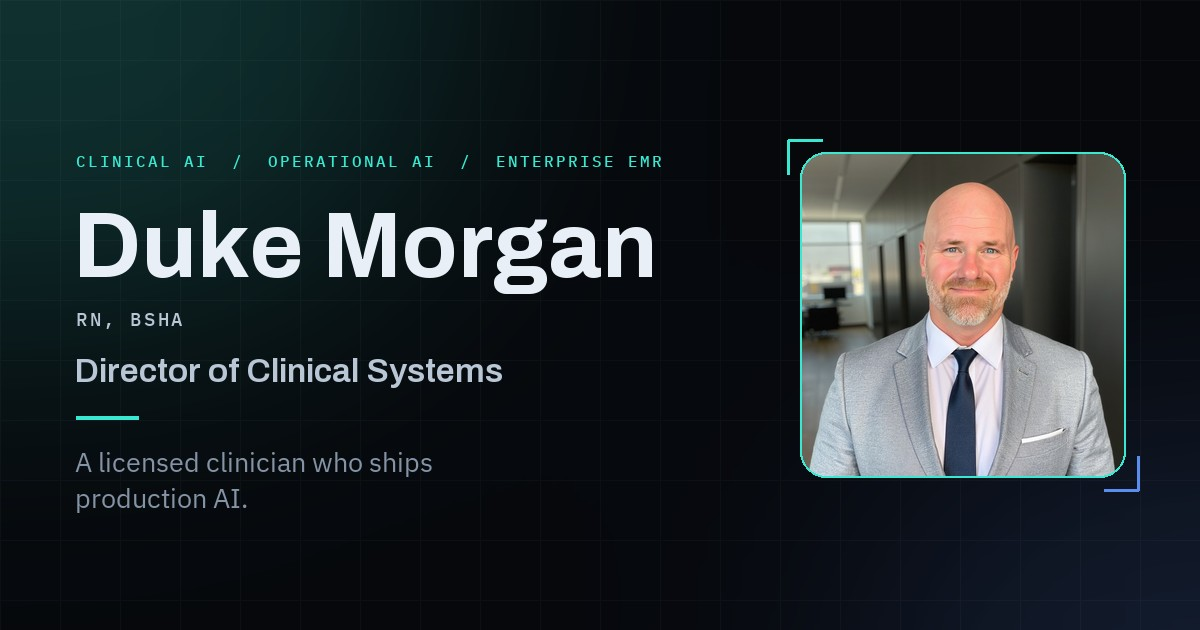
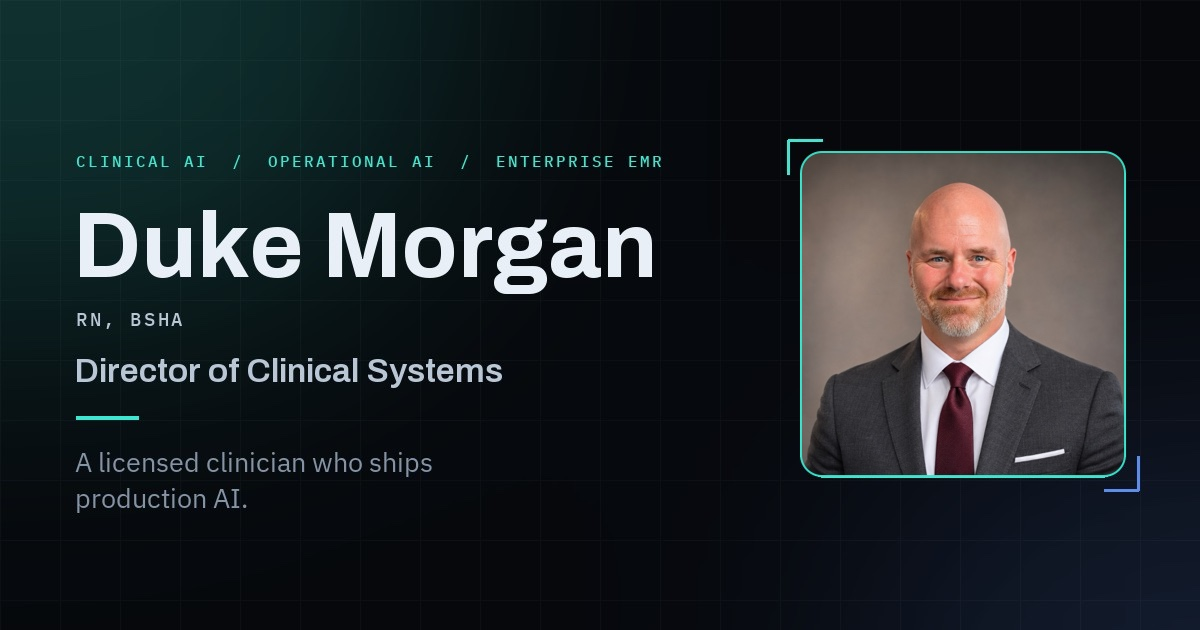
Update headshot and OG card, upgrade Solutions playbook, and align official title

Changed region(s): [[0.6475, 0.2413, 0.9558, 0.754]]

diff --git a/site/index.html b/site/index.html
@@ -48,7 +48,7 @@
       <span class="nav__mark" aria-hidden="true">DM</span>
       <span class="nav__name">Duke Morgan<span class="nav__cred">RN, BSHA</span></span>
     </a>
-    <nav class="nav__links" id="primary-nav" aria-label="Primary"><a href="#clinical">Clinical AI</a><a href="#architecture">Architecture</a><a href="#operations">AI Enablement</a><a href="#systems">Engineering</a><a href="#about">About Duke</a><a href="#credentials">Credentials</a><a href="#contact" class="nav__cta">Contact</a></nav>
+    <nav class="nav__links" id="primary-nav" aria-label="Primary"><a href="#clinical">Clinical AI</a><a href="#architecture">Architecture</a><a href="#operations">AI Enablement</a><a href="#systems">Solutions</a><a href="#about">About Duke</a><a href="#credentials">Credentials</a><a href="#contact" class="nav__cta">Contact</a></nav>
     <button class="nav__toggle" aria-label="Toggle navigation" aria-controls="primary-nav" aria-expanded="false">
       <span></span><span></span><span></span>
     </button>
@@ -421,7 +421,7 @@
     <div class="case-panel" data-case-panel="c4" role="tabpanel">
       <article class="case-study">
         <div class="case-heading"><span class="case-number">04</span><div><p class="eyebrow">Agent systems / Persistent institutional knowledge</p><h3>Stop rebuilding context every time work resumes.</h3><p class="case-lead">Arm autonomous sessions with persistent memory, operational findings, and synthesized skills from previous runs.</p></div></div>
-        <div class="case-body"><div class="case-problem"><h4>The problem</h4><p>Agents operating in isolated sessions repeatedly lose prior findings, procedural decisions, and runtime context. High-value operational discoveries remain trapped in ephemeral chat histories.</p></div><div class="case-solution"><h4>What I built &amp; enabled</h4><p>I built a shared, persistent knowledge base paired with an automated session review pipeline. The pipeline analyzes completed workflows, extracts repeatable operational patterns, and synthesizes them into modular skills available to the entire agent fleet.</p><div class="case-change"><h4>What changed</h4><p>Decisions and architectural discoveries compound across sessions. As agents resolve novel operational challenges, the platform automatically codifies those patterns into reusable enterprise skills.</p></div></div></div>
+        <div class="case-body"><div class="case-problem"><h4>The problem</h4><p>Agents operating in isolated sessions repeatedly lose prior findings, procedural decisions, and runtime context. High-value operational discoveries remain trapped in ephemeral chat histories.</p></div><div class="case-solution"><h4>What I built &amp; enabled</h4><p>I built a shared, persistent knowledge base (750+ indexed architectural files, operational runbooks, and a centralized tool registry) paired with an automated session review pipeline. The pipeline analyzes completed workflows, extracts repeatable operational patterns, and synthesizes them into modular skills available to the entire agent fleet.</p><div class="case-change"><h4>What changed</h4><p>Decisions and architectural discoveries compound across sessions. As agents resolve novel operational challenges, the platform automatically codifies those patterns into reusable enterprise skills.</p></div></div></div>
         <ol class="case-flow" aria-label="How the workflow works"><li><span>01</span>Complete a task</li><li><span>02</span>Review the session</li><li><span>03</span>Preserve findings &amp; reusable steps</li><li><span>04</span>Use them in the next task</li></ol><ul class="chips" aria-label="Skills demonstrated"><li>Persistent Context</li><li>Multi-Agent Orchestration</li><li>Dynamic Skill Synthesis</li><li>Knowledge Retrieval</li></ul>
       </article>
     </div>
@@ -487,14 +487,200 @@
 
 </div></section>
 
-<section class="section " id="systems"><div class="wrap"><div class="section__head"><p class="eyebrow">03 / Supporting engineering</p><h2 class="section__title">Problems solved in clinical systems.</h2><p class="section__sub">My experience shows up in the problems I investigate and the tools I build. These examples from my clinical systems work connect the underlying fault to a practical solution.</p></div><div class="cards cards--3">
-<article class="card"><p class="eyebrow">Clinical record access</p><h3>Bring four legacy EMRs into one view.</h3><p><strong>Problem:</strong> Records were spread across four legacy platforms, with shared credentials for access.</p><p><strong>Solution:</strong> I built a read-only clinical viewer and migration tooling with .NET, React, and Azure. The migration covered 3M+ clinical records, 770K+ documents, and 80K+ treatment cycles. Entra ID single sign-on replaced shared credentials, with authorization controls across clinics.</p></article>
-<article class="card"><p class="eyebrow">Safer operational changes</p><h3>Check the system before applying the plan.</h3><p><strong>Problem:</strong> The live system could change between approval and execution.</p><p><strong>Solution:</strong> My Python/Flask administration console handles chart merges, provisioning, drug libraries, and permissions. It re-validates live state before execution and stops when conditions differ from the approved plan. It caught a real divergence on its first run.</p></article>
-<article class="card"><p class="eyebrow">Data integrity</p><h3>Find the fault behind a successful load.</h3><p><strong>Problem:</strong> A laboratory migration reported success while a non-unique key collapsed distinct records.</p><p><strong>Solution:</strong> I traced the fault, changed the keying approach, and recovered records that would otherwise have been lost.</p></article>
-<article class="card"><p class="eyebrow">EMR troubleshooting</p><h3>Find charts the system made invisible.</h3><p><strong>Problem:</strong> A vendor function made affected charts impossible to open and invisible in search, making missing records harder to recognize.</p><p><strong>Solution:</strong> I traced the issue to a null-dereference and produced a reversible fix.</p></article>
-<article class="card"><p class="eyebrow">Permission governance</p><h3>Verify the audit trail behind access changes.</h3><p><strong>Problem:</strong> During access remediation across two production sites, partial permission changes were missing from the vendor’s audit trail.</p><p><strong>Solution:</strong> I identified the stored-procedure gap, removed excess access, and validated the governed change.</p></article>
-<article class="card"><p class="eyebrow">Patient document access</p><h3>Put access controls around sensitive documents.</h3><p><strong>Problem:</strong> A patient document store allowed public reads, and a separate authorization gap permitted access across clinics.</p><p><strong>Solution:</strong> I implemented authenticated document delivery, row-level controls, and a global authorization filter.</p></article>
-</div></div></section>
+<section class="section " id="systems"><div class="wrap"><div class="section__head"><p class="eyebrow">03 / Workplace problems &amp; shipped solutions</p><h2 class="section__title">Operational bottlenecks turned into production systems.</h2><p class="section__sub">Real problems encountered across multi-clinic healthcare operations and enterprise AI delivery—paired with the technical solution I built and the measurable outcome. Filter by focus area below.</p></div>
+
+<div class="solutions-bar reveal" aria-label="Filter workplace solutions by focus area">
+  <div class="solutions-filters" role="tablist" aria-label="Solution categories">
+    <button type="button" class="solution-filter is-active" data-solution-filter="featured" role="tab" aria-selected="true">Featured (6)</button>
+    <button type="button" class="solution-filter" data-solution-filter="all" role="tab" aria-selected="false">All Solutions (12)</button>
+    <button type="button" class="solution-filter" data-solution-filter="clinical" role="tab" aria-selected="false">Clinical Systems &amp; EMR (5)</button>
+    <button type="button" class="solution-filter" data-solution-filter="ai" role="tab" aria-selected="false">Enterprise AI &amp; Governance (4)</button>
+    <button type="button" class="solution-filter" data-solution-filter="ops" role="tab" aria-selected="false">Ops &amp; Enablement (3)</button>
+  </div>
+  <span class="solutions-meta" id="solutions-meta" aria-live="polite">Showing 6 featured highlights</span>
+</div>
+
+<div class="cards cards--3 solutions-grid" id="solutions-grid">
+
+  <article class="card solution-card" data-track="clinical" data-featured="true">
+    <div class="solution-card__top">
+      <p class="solution-card__cat">Clinical Data Migration</p>
+      <span class="solution-card__metric">9 hrs &rarr; &lt;6 min</span>
+    </div>
+    <h3>Onboard an active primary EMR into a unified multi-clinic viewer.</h3>
+    <div class="solution-card__body">
+      <p><strong>Problem:</strong> Our multi-clinic viewer (3M+ records across 4 legacy EMRs) had never ingested data directly from our active primary EMR—over 1M rows with undocumented schemas and mis-encoded binary documents.</p>
+      <p><strong>Solution:</strong> Built a batched bulk-loader pipeline, a standalone binary document encoding repair utility, and a reusable vendor migration profile.</p>
+      <p class="solution-card__impact"><strong>Impact:</strong> Migrated 11,600+ patients and 1.3M+ records in under 6 minutes (down from ~9 hours), creating a repeatable onboarding blueprint for future clinics.</p>
+    </div>
+    <ul class="chips" aria-label="Capabilities demonstrated"><li>Bulk ETL</li><li>SQL Server</li><li>Binary Repair</li><li>1.3M+ Records</li></ul>
+  </article>
+
+  <article class="card solution-card" data-track="clinical" data-featured="true">
+    <div class="solution-card__top">
+      <p class="solution-card__cat">Permission Governance</p>
+      <span class="solution-card__metric">14 Sites &middot; 177 Changes</span>
+    </div>
+    <h3>Revoke sensitive clinical access safely across a multi-clinic network.</h3>
+    <div class="solution-card__body">
+      <p><strong>Problem:</strong> The EMR’s additive security model lacked "deny" semantics. Manually revoking Billing Write access across 14+ clinics risked raw SQL errors and silent vendor audit-trail gaps.</p>
+      <p><strong>Solution:</strong> Built a dry-run-first CLI wrapping vendor stored procedures to preview full before/after states, verify audit logging, and capture row-level rollback snapshots.</p>
+      <p class="solution-card__impact"><strong>Impact:</strong> Completed 177 verified revocations across 14 production centers with zero data loss, exposed a vendor audit-logging defect, and caught live unauthorized re-grants within minutes.</p>
+    </div>
+    <ul class="chips" aria-label="Capabilities demonstrated"><li>Access Governance</li><li>Dry-Run CLI</li><li>Audit Forensics</li><li>Rollback Safety</li></ul>
+  </article>
+
+  <article class="card solution-card" data-track="clinical" data-featured="true">
+    <div class="solution-card__top">
+      <p class="solution-card__cat">Core Clinical Engineering</p>
+      <span class="solution-card__metric">196 Tests &middot; 0 Regressions</span>
+    </div>
+    <h3>Modernize a 39-category legacy chart-merge engine in native TypeScript.</h3>
+    <div class="solution-card__body">
+      <p><strong>Problem:</strong> Complex patient chart merges—covering 39 data categories, gap repairs, and cascade reversions—lived in a brittle legacy service outside our modern enterprise operations stack.</p>
+      <p><strong>Solution:</strong> Executed a 10-phase port into TypeScript, engineering every merge category as a builder/reverser pair with pre-mutation backups and compile-time clinic registries.</p>
+      <p class="solution-card__impact"><strong>Impact:</strong> Deployed with 196 passing automated tests and zero regressions, enabling safe, instantaneous chart merges across any configured clinic from one unified interface.</p>
+    </div>
+    <ul class="chips" aria-label="Capabilities demonstrated"><li>TypeScript</li><li>Builder/Reverser</li><li>196 Unit Tests</li><li>Zero Regressions</li></ul>
+  </article>
+
+  <article class="card solution-card" data-track="ai" data-featured="true">
+    <div class="solution-card__top">
+      <p class="solution-card__cat">HIPAA / BAA AI Architecture</p>
+      <span class="solution-card__metric solution-card__metric--blue">Zero PHI Egress</span>
+    </div>
+    <h3>Enable AI-assisted clinical database forensics without exposing PHI.</h3>
+    <div class="solution-card__body">
+      <p><strong>Problem:</strong> Repetitive clinical data investigations (duplicate charts, ID collisions, population anomalies) were ideal for AI, but HIPAA rules bar raw patient data from commercial AI stacks.</p>
+      <p><strong>Solution:</strong> Built a guarded local query proxy and BAA-governed read-only investigator that validates schema paths against injection, routes raw results to an isolated HIPAA de-identification layer, and returns only scrubbed summaries.</p>
+      <p class="solution-card__impact"><strong>Impact:</strong> Shifted effort from manual SQL querying to strategic investigation briefs—accelerating root-cause analysis inside an auditable, zero-leak boundary.</p>
+    </div>
+    <ul class="chips" aria-label="Capabilities demonstrated"><li>HIPAA / BAA</li><li>PHI De-ID Proxy</li><li>Read-Only Guardrails</li><li>Autonomous Forensics</li></ul>
+  </article>
+
+  <article class="card solution-card" data-track="ai" data-featured="true">
+    <div class="solution-card__top">
+      <p class="solution-card__cat">AI Platform Standardization</p>
+      <span class="solution-card__metric solution-card__metric--blue">Write Once &middot; Fleet-Wide</span>
+    </div>
+    <h3>Eliminate duplicated AI integrations with a unified MCP tool layer.</h3>
+    <div class="solution-card__body">
+      <p><strong>Problem:</strong> Connecting every AI agent separately to hybrid search, enterprise trackers, and clinical query gateways caused redundant engineering and vendor lock-in.</p>
+      <p><strong>Solution:</strong> Standardized internal capabilities on a Model Context Protocol (MCP) ecosystem so localized and cloud agents consume shared enterprise tools through one governed interface.</p>
+      <p class="solution-card__impact"><strong>Impact:</strong> Removed model-vendor lock-in and accelerated capability rollouts—any newly built internal tool immediately empowers the entire agent fleet.</p>
+    </div>
+    <ul class="chips" aria-label="Capabilities demonstrated"><li>MCP Ecosystem</li><li>Model-Agnostic</li><li>Governed Tooling</li><li>Enterprise Scale</li></ul>
+  </article>
+
+  <article class="card solution-card" data-track="ops" data-featured="true">
+    <div class="solution-card__top">
+      <p class="solution-card__cat">Compliance Automation</p>
+      <span class="solution-card__metric">100% Consistency &middot; 17 Sites</span>
+    </div>
+    <h3>Turn multi-site CAB filings into a single governed conversational command.</h3>
+    <div class="solution-card__body">
+      <p><strong>Problem:</strong> Manual Change Advisory Board (CAB) requests and enterprise task filings across 17 clinic sites caused template drift, missing fields, and administrative drag.</p>
+      <p><strong>Solution:</strong> Built a library of approved agent skills backed by role-scoped API integrations that interactively verify dynamic deployment windows and file structured CAB payloads automatically.</p>
+      <p class="solution-card__impact"><strong>Impact:</strong> Achieved 100% compliance documentation consistency across 17 sites, turning repetitive multi-page change requests into a one-sentence workflow.</p>
+    </div>
+    <ul class="chips" aria-label="Capabilities demonstrated"><li>CAB Governance</li><li>Agent Skills</li><li>RBAC API</li><li>Change Management</li></ul>
+  </article>
+
+  <article class="card solution-card" data-track="clinical" data-featured="false">
+    <div class="solution-card__top">
+      <p class="solution-card__cat">Clinical Workflow Automation</p>
+      <span class="solution-card__metric">Hand-Typed &rarr; Auto-Filled</span>
+    </div>
+    <h3>Automate clinic requisitions with an EMR Bookmark Mapping engine.</h3>
+    <div class="solution-card__body">
+      <p><strong>Problem:</strong> Clinic staff filled out lab requisitions and forms by hand because no reliable map existed showing which EMR Word bookmarks auto-populated versus required free text.</p>
+      <p><strong>Solution:</strong> Built a repeatable EMR Bookmark Master Key classifying every field (Pull-In, Free Text, site-dependent) and a Python/XML injector to embed validated bookmarks into Word templates.</p>
+      <p class="solution-card__impact"><strong>Impact:</strong> Eliminated repetitive manual typing on high-volume clinical forms while preventing teams from over-promising unsupported vendor fields to clinics.</p>
+    </div>
+    <ul class="chips" aria-label="Capabilities demonstrated"><li>Python / XML</li><li>EMR Bookmarks</li><li>Clinician Empathy</li><li>Form Automation</li></ul>
+  </article>
+
+  <article class="card solution-card" data-track="clinical" data-featured="false">
+    <div class="solution-card__top">
+      <p class="solution-card__cat">EMR Forensics &amp; Ops Safety</p>
+      <span class="solution-card__metric">Days &rarr; Checklist Diagnostics</span>
+    </div>
+    <h3>Replace risky ad-hoc SQL with a Forensics Playbook &amp; Guarded Ops Console.</h3>
+    <div class="solution-card__body">
+      <p><strong>Problem:</strong> Vague EMR failures (vanishing charts, blank schedules, silent key collisions) and bulk updates across 19 clinic databases forced slow, high-risk manual SQL.</p>
+      <p><strong>Solution:</strong> Authored a disciplined read-only forensics corpus with isolated transaction previews and built a clinical operations console that re-validates live DB state before executing changes.</p>
+      <p class="solution-card__impact"><strong>Impact:</strong> Compressed multi-day troubleshooting into checklist diagnostics, cut hours of bulk database ops to minutes, and armed vendor escalations with conclusive evidence.</p>
+    </div>
+    <ul class="chips" aria-label="Capabilities demonstrated"><li>Data Forensics</li><li>Pre-Flight Validation</li><li>19 Clinic DBs</li><li>Reversible Fixes</li></ul>
+  </article>
+
+  <article class="card solution-card" data-track="ai" data-featured="false">
+    <div class="solution-card__top">
+      <p class="solution-card__cat">AI FinOps &amp; Cost Governance</p>
+      <span class="solution-card__metric solution-card__metric--blue">28K+ Records &middot; 26 Models</span>
+    </div>
+    <h3>Bring single-pane cost observability to multi-provider AI usage.</h3>
+    <div class="solution-card__body">
+      <p><strong>Problem:</strong> Adopting multiple AI providers, APIs, and coding agents scattered usage logs across 29 distinct databases, making it difficult to audit model mix and recurring spend.</p>
+      <p><strong>Solution:</strong> Built a unified FinOps usage and cost dashboard importing telemetry from local coding agents and APIs with time-window filtering, renewal tracking, and reporting graphs.</p>
+      <p class="solution-card__impact"><strong>Impact:</strong> Recovered ~28,000 usage records across 26 models into 1,575 auditable aggregates, providing clear cost governance to optimize model selection and budgets.</p>
+    </div>
+    <ul class="chips" aria-label="Capabilities demonstrated"><li>AI FinOps</li><li>Cost Auditing</li><li>26 Models</li><li>Usage Analytics</li></ul>
+  </article>
+
+  <article class="card solution-card" data-track="ai" data-featured="false">
+    <div class="solution-card__top">
+      <p class="solution-card__cat">Agent Platform Reliability</p>
+      <span class="solution-card__metric solution-card__metric--blue">Supervised &middot; Self-Healing</span>
+    </div>
+    <h3>Run supervised specialist AI agents with production-grade reliability.</h3>
+    <div class="solution-card__body">
+      <p><strong>Problem:</strong> Supporting clinical platforms across 19 clinics creates continuous triage and build demand, while unattended background agents can crash silently or stall mid-workflow.</p>
+      <p><strong>Solution:</strong> Architected a supervised multi-agent operations layer with domain-scoped specialists, mandatory human approval gates, backoff-throttled restarts, health checks, and shared memory.</p>
+      <p class="solution-card__impact"><strong>Impact:</strong> Expanded engineering execution capacity with zero-touch crash recovery, predictable approval checkpoints, and lessons written durably back to an indexed knowledge base.</p>
+    </div>
+    <ul class="chips" aria-label="Capabilities demonstrated"><li>Multi-Agent Ops</li><li>Human-in-the-Loop</li><li>Process Supervision</li><li>Health Checks</li></ul>
+  </article>
+
+  <article class="card solution-card" data-track="ops" data-featured="false">
+    <div class="solution-card__top">
+      <p class="solution-card__cat">Knowledge Enablement</p>
+      <span class="solution-card__metric">30 min &rarr; Zero Touch</span>
+    </div>
+    <h3>Automate EMR vendor documentation into an indexed Knowledge Base.</h3>
+    <div class="solution-card__body">
+      <p><strong>Problem:</strong> Incoming EMR vendor updates, configuration guides, and troubleshooting docs took 20–30 minutes each to manually summarize, tag, and cross-reference.</p>
+      <p><strong>Solution:</strong> Built a watched-folder ingestion pipeline where a local agent parses new vendor documents, writes structured KB articles, attaches originals, and updates the hybrid search index.</p>
+      <p class="solution-card__impact"><strong>Impact:</strong> Cut documentation processing from 30 minutes per file to zero manual authoring, keeping a 750+ document institutional knowledge base continuously current.</p>
+    </div>
+    <ul class="chips" aria-label="Capabilities demonstrated"><li>Zero-Touch KB</li><li>Hybrid Search</li><li>750+ Artifacts</li><li>Doc Pipeline</li></ul>
+  </article>
+
+  <article class="card solution-card" data-track="ops" data-featured="false">
+    <div class="solution-card__top">
+      <p class="solution-card__cat">Program Visibility</p>
+      <span class="solution-card__metric">4 Boards &rarr; 1 View</span>
+    </div>
+    <h3>Unify multi-clinic rollout tracking with zero data migration.</h3>
+    <div class="solution-card__body">
+      <p><strong>Problem:</strong> Clinic go-lives, server deployments, and testing issues were fragmented across four isolated tracking boards with no executive rollup.</p>
+      <p><strong>Solution:</strong> Engineered a zero-dependency Python operations dashboard reading the existing shared data files directly to auto-compute completion percentages and status indicators.</p>
+      <p class="solution-card__impact"><strong>Impact:</strong> Consolidated four operational tracking surfaces into one cohesive leadership view and retired legacy boards cleanly with zero data loss or manual re-entry.</p>
+    </div>
+    <ul class="chips" aria-label="Capabilities demonstrated"><li>Python</li><li>Zero Dependencies</li><li>Executive Rollups</li><li>Rollout Ops</li></ul>
+  </article>
+
+</div>
+
+<div class="solutions-footer" id="solutions-footer">
+  <p>Showing 6 flagship highlights for fast executive review. Want deeper clinical and AI engineering examples?</p>
+  <button type="button" class="btn btn--ghost" id="solutions-show-all">
+    View all 12 workplace solutions
+    <svg viewBox="0 0 24 24" aria-hidden="true"><path d="M5 12h14M13 6l6 6-6 6"/></svg>
+  </button>
+</div>
+
+</div></section>
 
 <section class="section section--alt" id="about"><div class="wrap"><div class="section__head"><p class="eyebrow">04 / The person behind the work</p><h2 class="section__title">Clinical experience shapes what I build.</h2><p class="section__sub"></p></div><div class="about-showcase"><img src="assets/img/headshot-approachable.jpg" alt="Duke Morgan" width="1024" height="1024" loading="lazy"><div><p>I started in emergency nursing, where a difficult workflow has immediate consequences for the person trying to use it. That experience still shapes the questions I ask: What is someone trying to do? Where does the system get in the way? How will we know the change worked?</p><p>Today, I direct clinical systems at Inception Fertility and continue to build software and AI tools myself. I bring the clinical context, implementation experience, and technical depth needed to take a problem from investigation through delivery.</p><p>My interests extend into applied AI and automation wherever people need help navigating complex systems and repetitive work.</p></div></div>
 
@@ -513,7 +699,7 @@
   </div>
   <div class="career-step career-step--current">
     <span class="career-step__when"><span class="career-step__dot" aria-hidden="true"></span>2017 – Present &bull; Executive &amp; AI Architecture</span>
-    <span class="career-step__role">Director of Clinical Systems &amp; Applied AI</span>
+    <span class="career-step__role">Director of Clinical Systems</span>
     <span class="career-step__org">Multi-State Fertility Care Network</span>
     <span class="career-step__desc">Direct multi-EMR strategy, $MM vendor portfolio, BAA-governed Azure AI Foundry routing, and agentic tools.</span>
   </div>
@@ -922,7 +1108,7 @@
         <span>AI Architect</span>
         <span>Clinical AI Leadership</span>
         <span>AI Enablement &amp; Transformation</span>
-        <span>Director / VP of Clinical Systems</span>
+        <span>Director of Clinical Systems</span>
       </div>
       <div class="contact__actions">
         <a class="btn btn--primary btn--lg" href="resume/Duke-Morgan-Resume.pdf" target="_blank">

diff --git a/site/assets/css/styles.css b/site/assets/css/styles.css
@@ -1158,3 +1158,82 @@ ul,ol{ margin:0; padding:0; list-style:none; }
   .rag-controls{width:100%}
 }
 
+/* ============================================================
+   Section 03: Filterable Problem & Solution Playbook
+   ============================================================ */
+.solutions-bar{
+  display:flex;align-items:center;justify-content:space-between;gap:1rem;flex-wrap:wrap;
+  padding-bottom:1.4rem;margin-bottom:1.85rem;border-bottom:1px solid var(--line);
+}
+.solutions-filters{display:flex;flex-wrap:wrap;gap:.55rem}
+.solution-filter{
+  font-family:var(--font-mono);font-size:.7rem;font-weight:500;letter-spacing:.04em;
+  padding:.55rem .95rem;border-radius:9px;
+  border:1px solid var(--line-2);background:rgba(12,18,26,.85);color:var(--muted);
+  cursor:pointer;transition:color .25s var(--ease),border-color .25s var(--ease),background .25s var(--ease),box-shadow .25s var(--ease);
+}
+.solution-filter:hover{color:var(--text);border-color:rgba(56,232,208,.45)}
+.solution-filter.is-active{
+  color:#04140F;font-weight:600;border-color:var(--teal);
+  background:linear-gradient(135deg,#6FF3E1 0%,var(--teal) 52%,var(--teal-dim) 100%);
+  box-shadow:0 6px 22px -8px rgba(56,232,208,.55);
+}
+.solutions-meta{
+  font-family:var(--font-mono);font-size:.7rem;letter-spacing:.05em;color:var(--faint);
+}
+
+.solutions-grid{align-items:stretch}
+.solution-card{display:flex;flex-direction:column;padding:1.75rem 1.65rem}
+.solution-card.is-hidden{display:none}
+.solution-card__top{
+  display:flex;align-items:flex-start;justify-content:space-between;gap:.65rem;flex-wrap:wrap;
+  margin-bottom:.95rem;
+}
+.solution-card__cat{
+  font-family:var(--font-mono);font-size:.64rem;letter-spacing:.14em;text-transform:uppercase;
+  color:var(--muted);margin:0;padding-top:.22rem;line-height:1.4;
+}
+.solution-card__metric{
+  font-family:var(--font-mono);font-size:.64rem;font-weight:500;letter-spacing:.04em;
+  color:var(--teal);background:rgba(56,232,208,.10);border:1px solid rgba(56,232,208,.28);
+  padding:.24rem .62rem;border-radius:999px;white-space:nowrap;flex-shrink:0;
+}
+.solution-card__metric--blue{
+  color:#7DB0FF;background:rgba(91,141,239,.12);border-color:rgba(91,141,239,.34);
+}
+.solution-card h3{
+  font-size:1.05rem;font-weight:600;line-height:1.28;letter-spacing:-.015em;
+  margin-bottom:.9rem;color:var(--text);
+}
+.solution-card__body{
+  display:flex;flex-direction:column;gap:.65rem;flex:1;margin-bottom:1.15rem;
+}
+.solution-card__body p{
+  font-size:.865rem;color:var(--text-2);line-height:1.68;margin:0;
+}
+.solution-card__body strong{color:var(--text);font-weight:600}
+.solution-card__impact{
+  padding-top:.75rem;margin-top:.2rem;border-top:1px solid var(--line);
+}
+.solution-card__impact strong{
+  font-family:var(--font-mono);font-size:.68rem;letter-spacing:.1em;text-transform:uppercase;
+  color:var(--teal);margin-right:.2rem;
+}
+.solution-card .chips{
+  padding-top:.95rem;border-top:1px solid rgba(146,176,206,.07);gap:.4rem;
+}
+.solution-card .chips li{font-size:.63rem;padding:.26rem .52rem}
+
+.solutions-footer{
+  display:none;align-items:center;justify-content:space-between;gap:1rem;flex-wrap:wrap;
+  margin-top:2rem;padding-top:1.5rem;border-top:1px solid var(--line);
+}
+.solutions-footer.is-visible{display:flex}
+.solutions-footer p{margin:0;font-size:.86rem;color:var(--muted)}
+
+@media(max-width:640px){
+  .solution-card{padding:1.45rem 1.3rem}
+  .solutions-footer{flex-direction:column;align-items:flex-start}
+  .solutions-footer .btn{width:100%;justify-content:center}
+}
+

diff --git a/site/assets/js/main.js b/site/assets/js/main.js
@@ -365,6 +365,66 @@
     });
   });
 
+  /* ---------- Section 03: Filterable Problem & Solution Playbook ---------- */
+  var solutionFilters = document.querySelectorAll('.solution-filter[data-solution-filter]');
+  var solutionCards = document.querySelectorAll('.solution-card[data-track]');
+  var solutionsMeta = document.getElementById('solutions-meta');
+  var solutionsFooter = document.getElementById('solutions-footer');
+  var solutionsShowAll = document.getElementById('solutions-show-all');
+
+  if (solutionFilters.length && solutionCards.length) {
+    var filterLabels = {
+      featured: 'Showing 6 featured highlights',
+      all: 'Showing all 12 workplace solutions',
+      clinical: 'Showing 5 Clinical Systems & EMR solutions',
+      ai: 'Showing 4 Enterprise AI & Governance solutions',
+      ops: 'Showing 3 Ops & Enablement solutions'
+    };
+
+    function applySolutionFilter(filter) {
+      var visibleCount = 0;
+
+      Array.prototype.forEach.call(solutionFilters, function (btn) {
+        var active = btn.getAttribute('data-solution-filter') === filter;
+        btn.classList.toggle('is-active', active);
+        btn.setAttribute('aria-selected', String(active));
+      });
+
+      Array.prototype.forEach.call(solutionCards, function (card) {
+        var track = card.getAttribute('data-track');
+        var featured = card.getAttribute('data-featured') === 'true';
+        var show =
+          filter === 'all' ||
+          (filter === 'featured' && featured) ||
+          track === filter;
+        card.classList.toggle('is-hidden', !show);
+        if (show) visibleCount += 1;
+      });
+
+      if (solutionsMeta) {
+        solutionsMeta.textContent = filterLabels[filter] || ('Showing ' + visibleCount + ' solutions');
+      }
+      if (solutionsFooter) {
+        solutionsFooter.classList.toggle('is-visible', filter === 'featured');
+      }
+    }
+
+    Array.prototype.forEach.call(solutionFilters, function (btn) {
+      btn.addEventListener('click', function () {
+        applySolutionFilter(btn.getAttribute('data-solution-filter'));
+      });
+    });
+
+    if (solutionsShowAll) {
+      solutionsShowAll.addEventListener('click', function () {
+        applySolutionFilter('all');
+      });
+    }
+
+    // Default to 6 featured highlights when JS is active (no-JS displays all 12)
+    applySolutionFilter('featured');
+  }
+
   /* ---------- One-click Copy Email convenience ---------- */
   var emailLink = document.getElementById('email-link');
   var emailText = document.getElementById('email-text');
